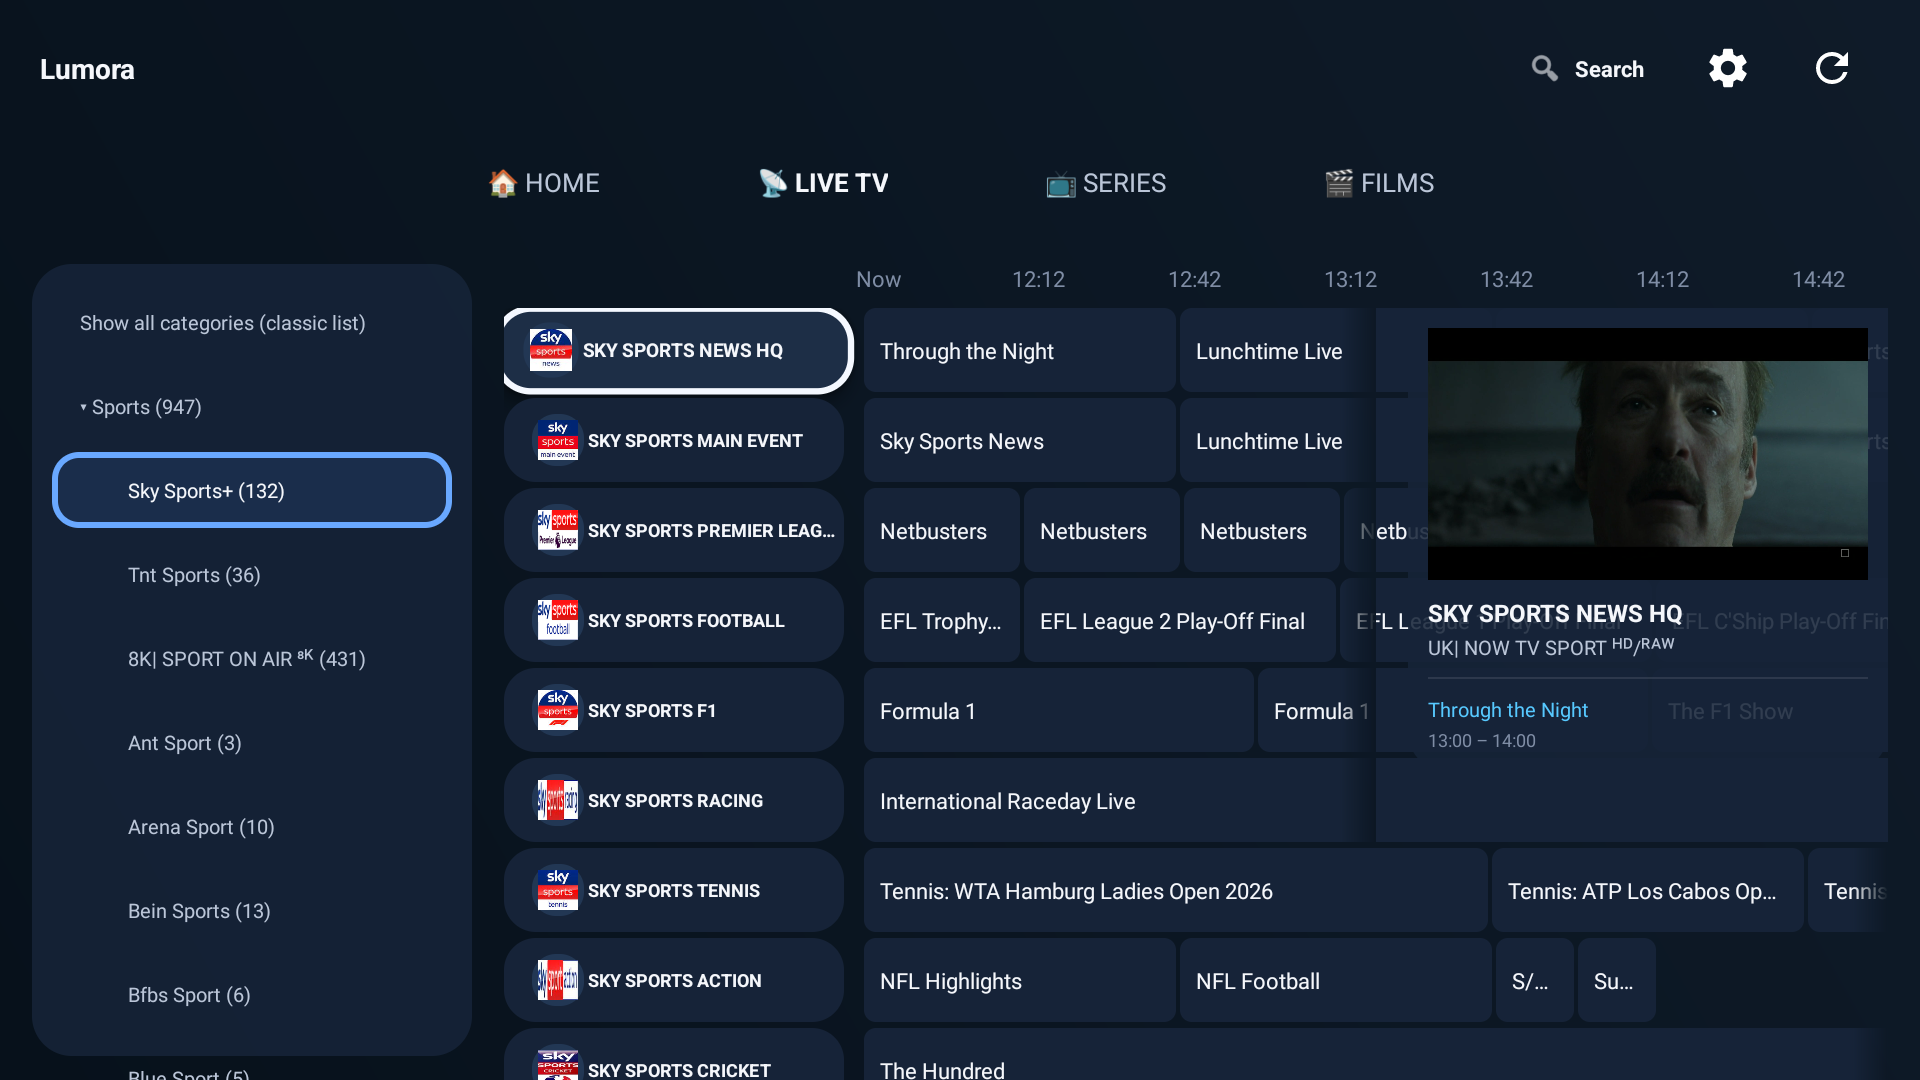
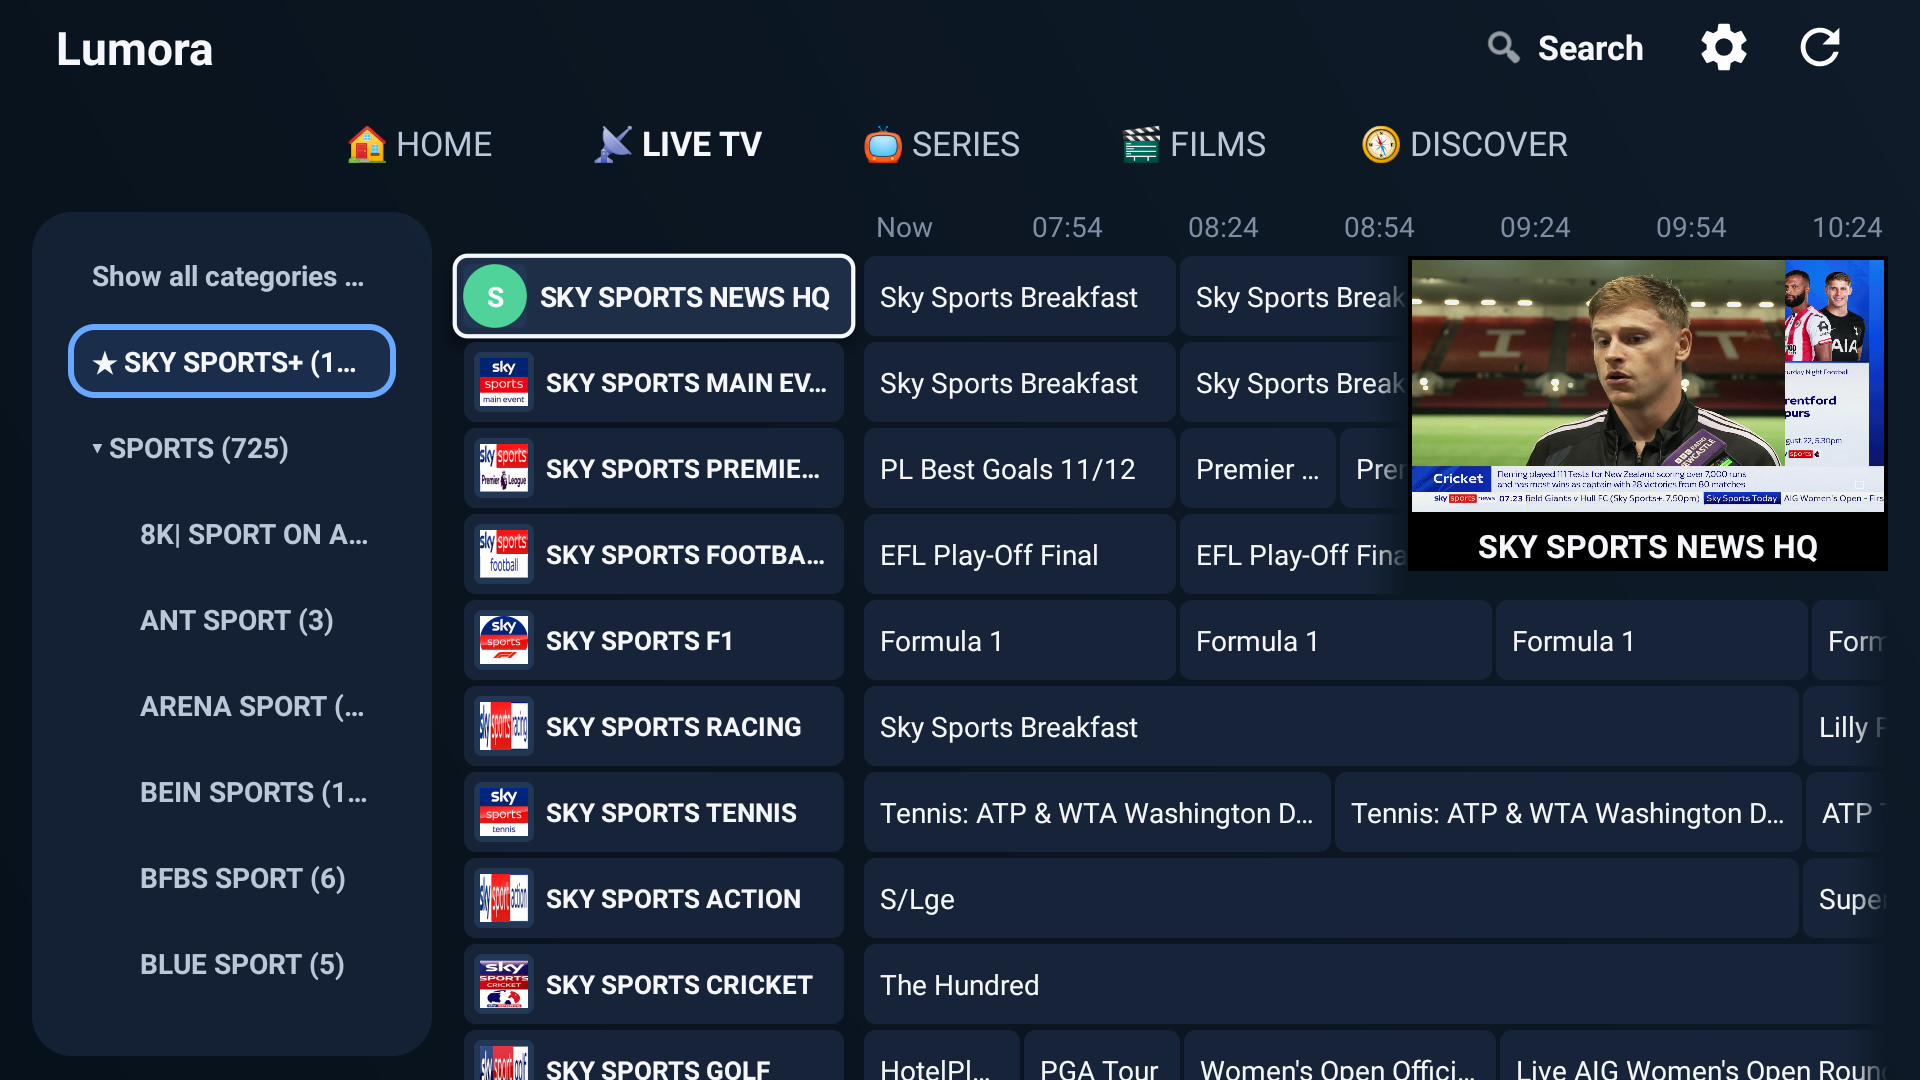
docs: add Highlights section and refresh screenshots
Leads with what Lumora is - an IPTV player whose paid-tier equivalents charge
for multi-playlist support, EPG, DVR and catch-up - with Jellyfin as the
optional second slot rather than the headline. Jellyfin's own capabilities move
out of the Movies/Playback lists into their own subsection so the feature list
reads the same way.

Screenshots updated from the current build (Live TV, Series, Films, Discover,
multi-provider settings with the server addresses redacted).

diff --git a/README.md b/README.md
@@ -14,9 +14,28 @@ Lumora speaks Xtream Codes, M3U/M3U8 playlists, Stalker Portal, and Jellyfin, an
 |---|---|
 | ![Live TV guide with EPG grid and channel preview](docs/screenshots/live-tv.png) | ![Series library with category shelves](docs/screenshots/series.png) |
 
+| Films library | Discover |
+|---|---|
+| ![Films library with Newest and category shelves](docs/screenshots/films.png) | ![Discover search with poster results](docs/screenshots/discover.png) |
+
 | Home shelves | Provider setup |
 |---|---|
 | ![Home screen shelves](docs/screenshots/home.png) | ![Settings screen showing QR phone-pairing flow](docs/screenshots/settings-qr.png) |
+
+**Multiple providers running side by side** (server addresses redacted)
+
+![Providers settings listing an Xtream provider and a Jellyfin server together, both enabled](docs/screenshots/settings-providers.png)
+
+## Highlights
+
+- **Similar to TiVimate or Sparkle TV, without paying for the features.** Multiple playlists, the EPG guide, DVR recording, catch-up, favourites and multi-provider support are the things those players put behind a premium subscription or one-off unlock. In Lumora they're all just included, free.
+- **Optional Jellyfin support, properly done.** Point it at your own Jellyfin server and its films and series merge into the same shelves as your IPTV catalogue (same title from both = one card). Resume points, watched marks and favourites sync both ways with the server, and files your stick can't decode are converted by the server on the fly rather than opening to a black screen.
+- **Run every subscription at once.** Any number of Xtream Codes, M3U and Stalker Portal providers active together, merged into one catalogue instead of switching between playlists.
+- **Live TV that tidies itself up.** Duplicate feeds of the same channel collapse into one entry at the best available quality (4K → FHD → HD → SD), with instant fallback to any other copy mid-playback; Sports, News, Music and Cinema surface at the top automatically whatever your provider filed them under.
+- **A proper EPG guide.** Scrollable program grid with per-channel schedules, now/next info, program reminders, timeshift/catch-up and DVR recording.
+- **Full VOD browsing.** Movies and Series with category shelves, poster grids, season/episode browsing, episode-level Continue Watching and auto-advance to the next episode.
+- **Offline downloads.** Save movies and episodes to the phone and watch them with no connection at all (phone only).
+- **Built for the remote and for cheap hardware.** Native XML/Views, no Jetpack Compose — it stays smooth on the low-powered sticks these apps usually stutter on, and everything is reachable with a D-pad.
 
 ## Features
 
@@ -36,6 +55,21 @@ Lumora speaks Xtream Codes, M3U/M3U8 playlists, Stalker Portal, and Jellyfin, an
 - Season/episode browser with **episode-level "Continue Watching"** — resumes the exact episode you left off on, and auto-advances to the next episode when one finishes
 - Poster grid view for browsing a full category, plus a global search with poster results
 - Pin, hide, and "See All" controls on every category shelf
+
+### Jellyfin (optional)
+
+Lumora is an IPTV player first — Jellyfin is an extra slot you can fill if you happen to run
+a server, and everything below is inert if you don't.
+
+- Its films and series merge into the **same shelves and poster grids** as your IPTV catalogue, with a dedicated "Jellyfin" shelf on Films and Series; a title both your provider and your server carry becomes one card with both sources selectable
+- **Two-way progress sync** — resume points and watched marks are read from and reported back to the server, so viewing in any other Jellyfin client is reflected here (and vice versa)
+- Server-driven **Continue Watching** and **Next Up** rows on Home, deduped against local progress
+- **Favourites sync** both ways
+- **Format handling** — plays the original file untouched where the device can handle it, and asks the server to convert it on the fly where it can't (10-bit HEVC, TrueHD/DTS audio and similar), based on what the device actually reports it can decode
+- External and server-extracted **subtitle tracks** loaded with their forced/default flags honoured
+- **Chapter picker** and **seek-preview thumbnails** (trickplay) in the player
+- Real season names (Specials included) and per-episode watched state from the server
+- Password or **Quick Connect** sign-in
 
 ### Playback
 - Built on **Media3 (ExoPlayer)** with HLS, DASH, and RTSP support
